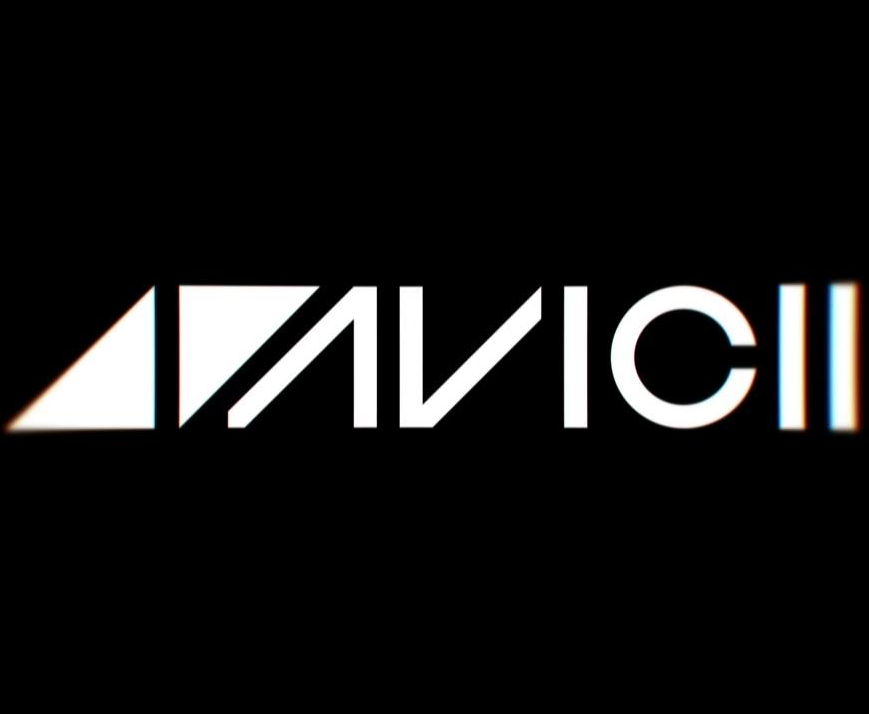
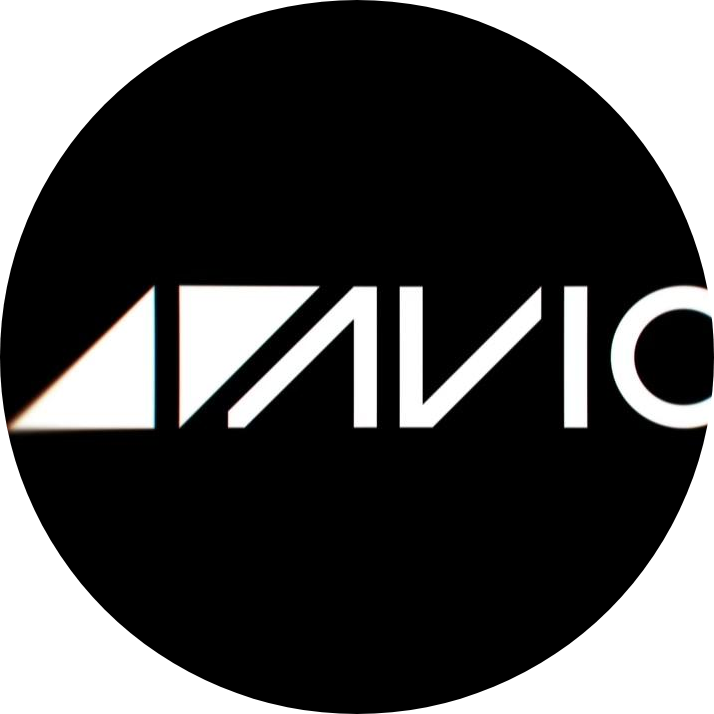
addcutcircle

diff --git a/src/pages/home.vue b/src/pages/home.vue
@@ -4,27 +4,38 @@
       <el-row>
         <el-col :xs="24" :sm="4" :md="18" :lg="18" :xl="18">
           <div class="main">
-            <list_home :items="items"></list_home>
+            <ListHome :items="items"></ListHome>
           </div>
         </el-col>
-        <el-col :xs="0" :sm="4" :md="6" :lg="6" :xl="6"></el-col>
+        <el-col :xs="0" :sm="4" :md="6" :lg="6" :xl="6">
+          <div id="pic" @click="cut">
+            <el-image
+              ref="originImg"
+              src="../../static/img/avatar.png"
+            ></el-image>
+          </div>
+          <div v-if="circleImg">
+            <el-image :src="circleImg"></el-image>
+          </div>
+        </el-col>
       </el-row>
     </div>
   </div>
 </template>
 
 <script>
-import List_home from "../components/list_home";
+import ListHome from "../components/list_home";
 import { webUrl } from "../../static/js/public.js";
 export default {
   data() {
     return {
       items: [],
       isLoading: false,
+      circleImg: null,
     };
   },
   components: {
-    List_home,
+    ListHome,
   },
   created() {
     this.isLoading = true;
@@ -32,6 +43,79 @@ export default {
       this.isLoading = false;
       this.items = res.data.reverse();
     });
+  },
+  methods: {
+    cut() {
+      let img = this.$refs.originImg;
+      this.circleImg = this.circle_image_v2(img);
+    },
+    circle_image_v2(img, imgType) {
+      let imgNode = img.$el.children[0];
+      let type = imgType || 0;
+      let radius, diameter, ctx, natural;
+      console.log(img, "img.naturalWidth");
+      if (type) {
+        if (img.naturalWidth > img.naturalHeight) {
+          radius = img.naturalHeight / 2;
+        } else {
+          radius = img.naturalWidth / 2;
+        }
+      } else {
+        if (img.imageWidth > img.imageHeight) {
+          radius = img.imageHeight / 2;
+        } else {
+          radius = img.imageWidth / 2;
+        }
+        if (img.imageWidth > img.imageHeight) {
+          natural = img.imageHeight;
+        } else {
+          natural = img.imageWidth;
+        }
+      }
+      diameter = radius * 2;
+      let canvas = document.createElement("canvas");
+      let contex = canvas.getContext("2d");
+      if (!canvas.getContext) {
+        // 判断浏览器是否支持canvas，如果不支持在此处做相应的提示
+        console.log("您的浏览器版本过低，暂不支持。");
+        return false;
+      }
+      canvas.width = diameter;
+      canvas.height = diameter;
+      contex.clearRect(0, 0, diameter, diameter);
+      contex.save();
+      contex.beginPath();
+      contex.arc(radius, radius, radius, 0, Math.PI * 2, false);
+      contex.clip();
+      if (type) {
+        contex.drawImage(
+          imgNode,
+          0,
+          0,
+          diameter,
+          diameter,
+          0,
+          0,
+          diameter,
+          diameter
+        );
+      } else {
+        contex.drawImage(
+          imgNode,
+          0,
+          0,
+          natural,
+          natural,
+          0,
+          0,
+          diameter,
+          diameter
+        );
+      }
+      contex.restore();
+      console.log(natural, diameter);
+      return canvas.toDataURL("image/png");
+    },
   },
 };
 </script>
@@ -91,6 +175,13 @@ export default {
       }
     }
   }
+}
+#pic:hover {
+  transform: rotate(666turn);
+  transition-property: all;
+  transition-duration: 59s;
+  transition-timing-function: cubic-bezier(0.34, 0, 0.84, 1);
+  transition-delay: 1s;
 }
 
 @media (min-width: 768px) {
